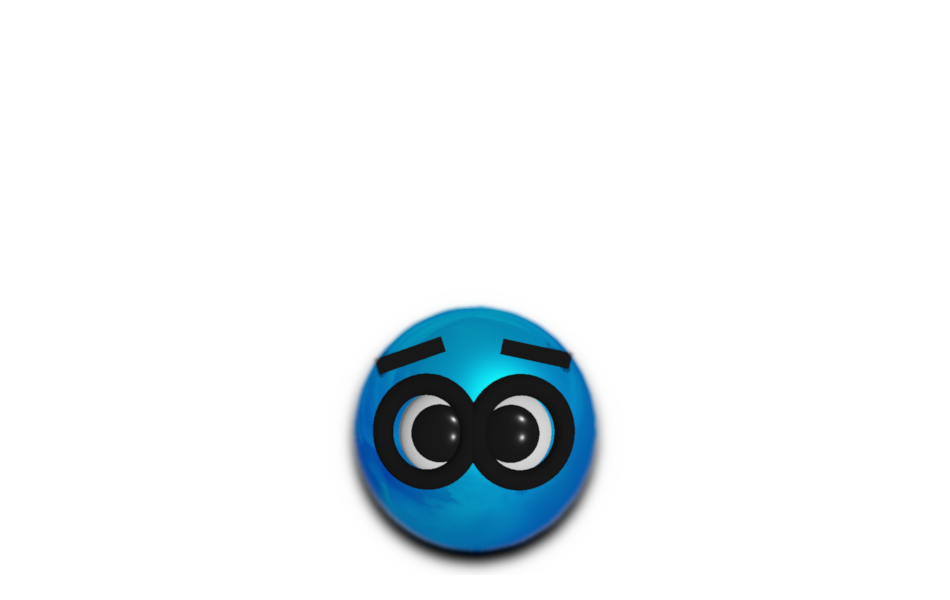
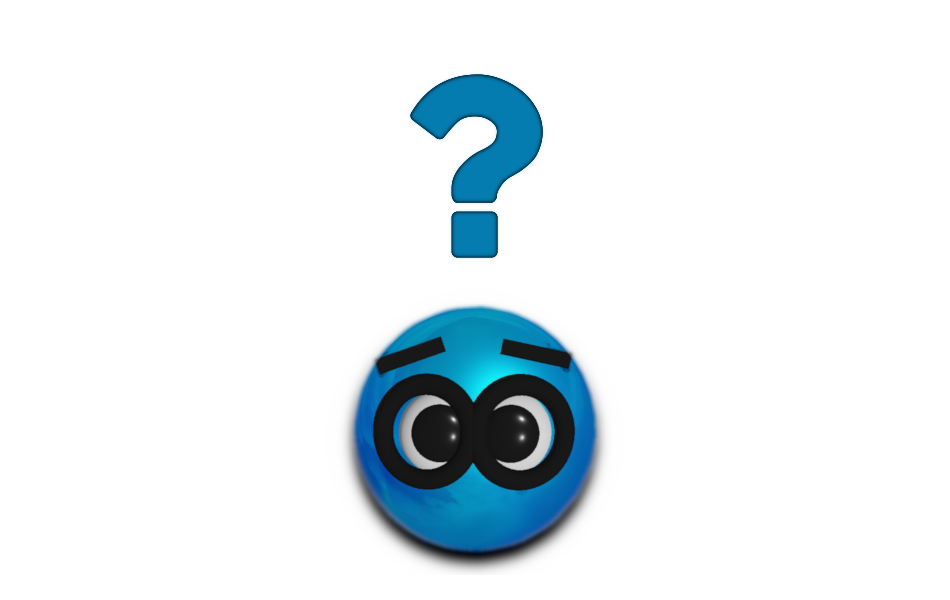
Updated question mark.

Changed region(s): [[0.4274, 0.12, 0.58, 0.45]]

diff --git a/post/marbleous-blocks-retrospect/index.html b/post/marbleous-blocks-retrospect/index.html
@@ -440,7 +440,7 @@
 
 <div class="article-header article-container featured-image-wrapper mt-4 mb-4" style="max-width: 720px; max-height: 455px;">
   <div style="position: relative">
-    <img src="/post/marbleous-blocks-retrospect/featured_hu989efa8d2c602927d37716ada7318f46_84327_720x0_resize_lanczos_2.png" alt="" class="featured-image">
+    <img src="/post/marbleous-blocks-retrospect/featured_huf1c7aedf24981fd489caedbbc3a05548_96867_720x0_resize_lanczos_2.png" alt="" class="featured-image">
     
   </div>
 </div>

diff --git a/index.html b/index.html
@@ -661,7 +661,7 @@
     
     
     <a href="/post/marbleous-blocks-retrospect/" >
-      <img src="/post/marbleous-blocks-retrospect/featured_hu989efa8d2c602927d37716ada7318f46_84327_150x0_resize_lanczos_2.png" itemprop="image">
+      <img src="/post/marbleous-blocks-retrospect/featured_huf1c7aedf24981fd489caedbbc3a05548_96867_150x0_resize_lanczos_2.png" itemprop="image">
     </a>
     
   </div>

diff --git a/post/index.html b/post/index.html
@@ -469,7 +469,7 @@
     
     
     <a href="/post/marbleous-blocks-retrospect/" >
-      <img src="/post/marbleous-blocks-retrospect/featured_hu989efa8d2c602927d37716ada7318f46_84327_150x0_resize_lanczos_2.png" itemprop="image">
+      <img src="/post/marbleous-blocks-retrospect/featured_huf1c7aedf24981fd489caedbbc3a05548_96867_150x0_resize_lanczos_2.png" itemprop="image">
     </a>
     
   </div>
